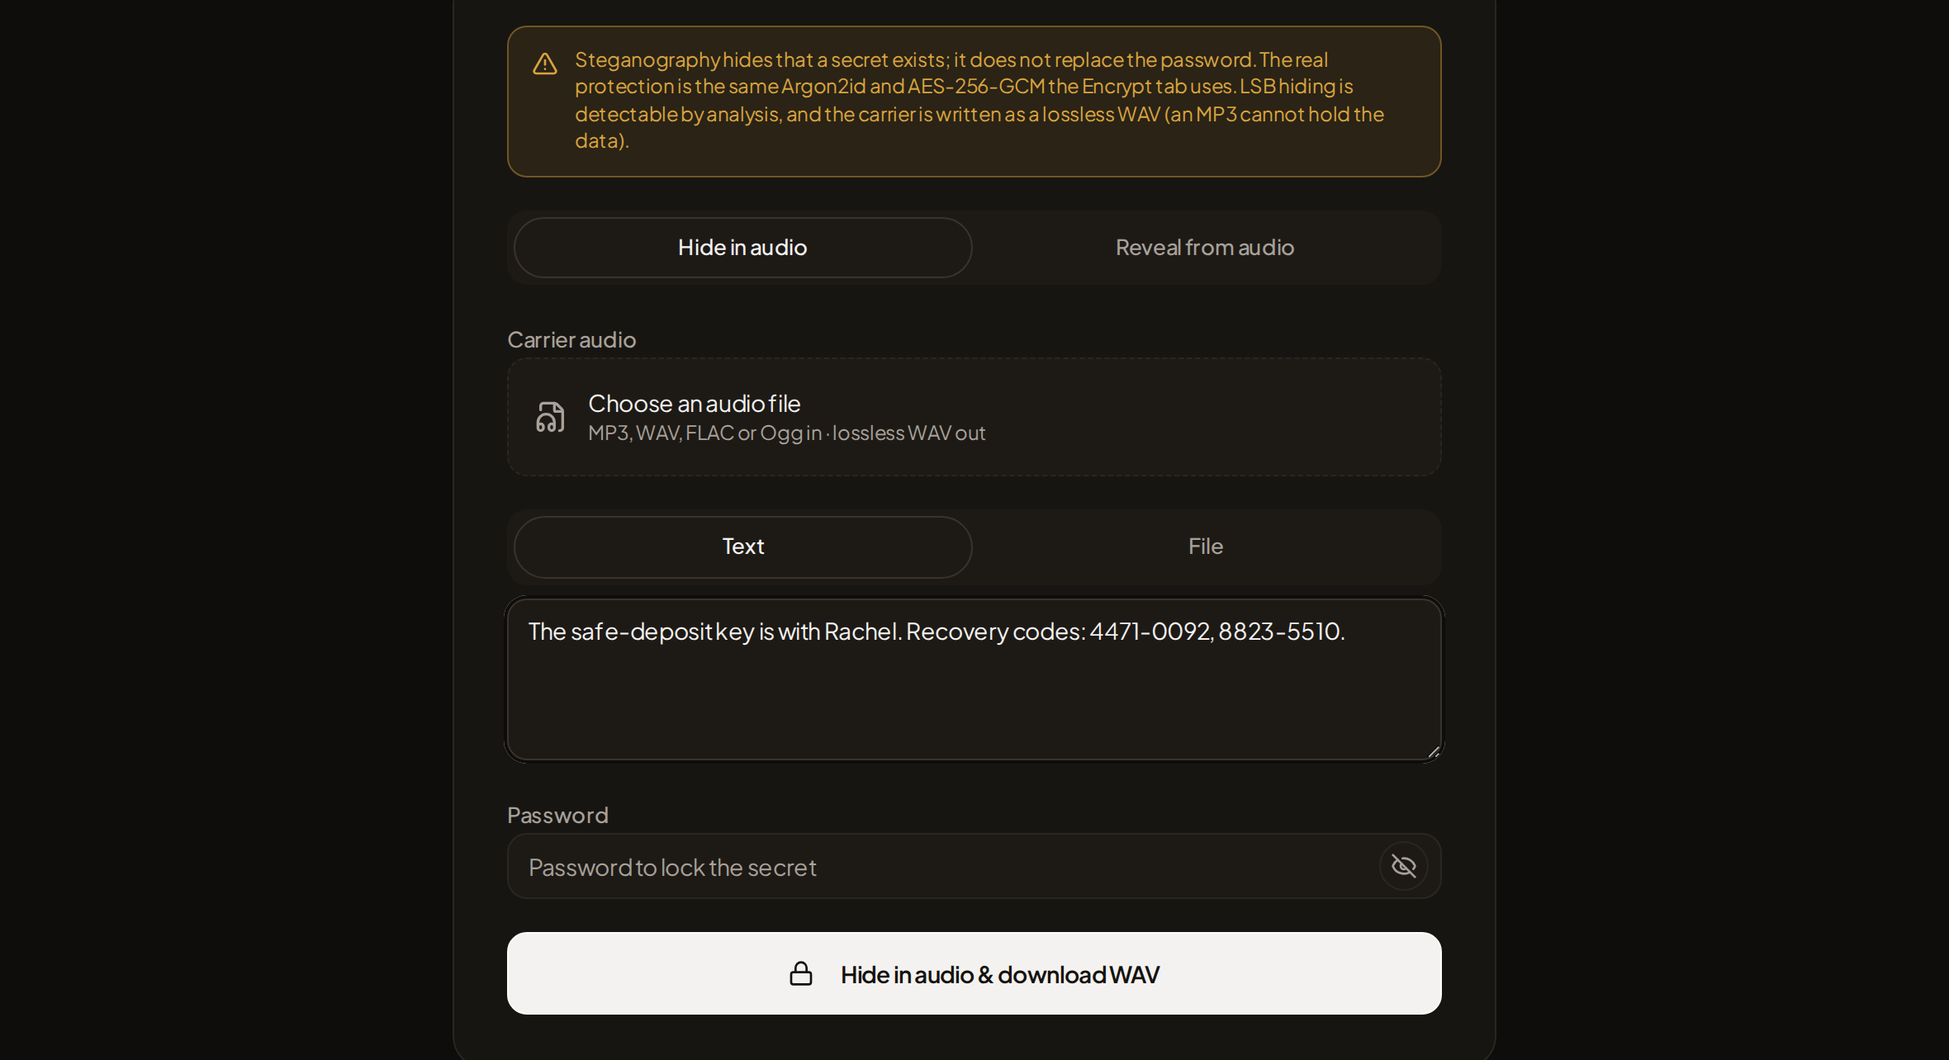
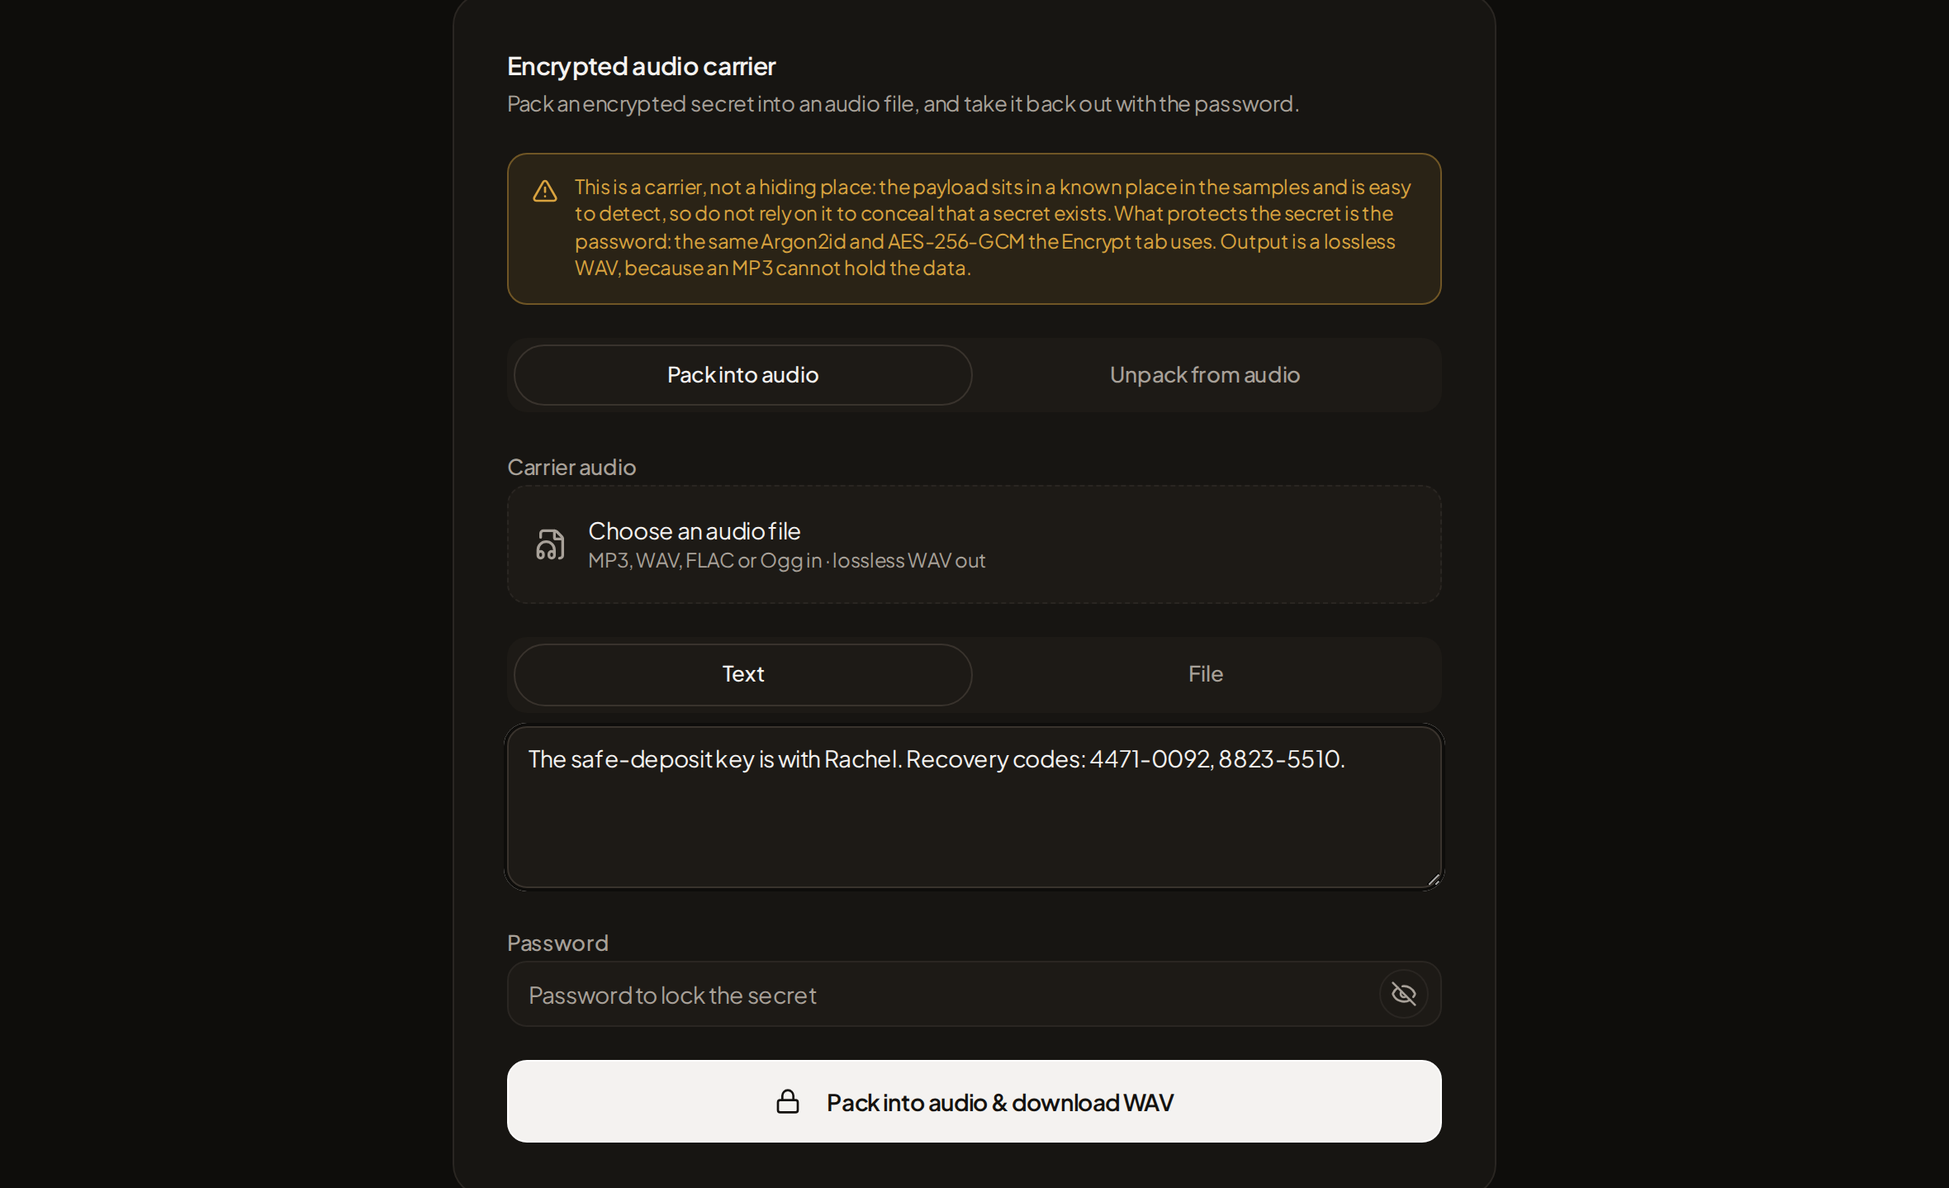
refactor(audio): frame the Audio tab as an encrypted carrier, not steganography
A security review correctly noted that KAUD1 is not meaningfully deniable
steganography: the magic sits in the first sample LSBs and the container
follows it sequentially, so the presence of a payload is trivially detectable.
Presenting it as "hides that a secret exists" oversold it.

- Reframe UI, docs and README as an "encrypted audio carrier". The banner now
  says plainly it is a carrier, not a hiding place, and does not claim to
  conceal that a secret exists. Pills and the primary button read Pack/Unpack.
- Add auto-lock to the tab: clear the password and any recovered secret on
  visibilitychange (hidden), pagehide, and unmount, overwriting the recovered
  buffer. This matches the main tool's secret-handling posture.
- Regenerate 12-audio-stego.png and update the capture step and browser test
  selectors for the new labels.

No format or crypto change: the payload is still an ordinary KEYM container
(Argon2id + AES-256-GCM), and KAUD1 on disk is unchanged.

diff --git a/src/components/audio-stego-tool.tsx b/src/components/audio-stego-tool.tsx
@@ -1,17 +1,23 @@
 "use client";
 
 /**
- * The Audio tab: hide a KEYM container inside an audio file (steganography), and
- * recover it. This is a carrier around the ordinary encrypt/decrypt path, not a
- * new cipher. The bytes hidden in the audio are a normal container produced by
- * `encryptViaWorker`, so Argon2id + AES-256-GCM and the independent decryptor
- * apply unchanged. See docs/FORMAT-AUDIO-STEGO.md.
+ * The Audio tab: an **encrypted audio carrier**. It packs a KEYM container into
+ * an audio file's samples and recovers it. This is a carrier around the ordinary
+ * encrypt/decrypt path, not a new cipher: the bytes packed into the audio are a
+ * normal container produced by `encryptViaWorker`, so Argon2id + AES-256-GCM and
+ * the independent decryptor apply unchanged. See docs/FORMAT-AUDIO-STEGO.md.
+ *
+ * Deliberately not called steganography in the UI. The `KAUD1` header sits in
+ * the first sample LSBs and the container follows it sequentially, so the
+ * presence of a payload is trivially detectable; this hides nothing from anyone
+ * who looks. What protects the secret is the password, exactly as on the Encrypt
+ * tab.
  *
  * Self-contained on purpose. It renders in its own tab like DiceEntropyTool, so
  * none of the 5,000-line encryptor's mode logic has to grow a fourth case.
  */
 
-import { useCallback, useRef, useState } from "react";
+import { useCallback, useEffect, useRef, useState } from "react";
 import { Button } from "@/components/ui/button";
 import { Input } from "@/components/ui/input";
 import { Label } from "@/components/ui/label";
@@ -116,6 +122,38 @@ export function AudioStegoTool() {
     setShowRevealed(false);
   }, []);
 
+  // Drop every secret this tab holds. JavaScript cannot guarantee zeroization,
+  // but the recovered bytes are one buffer this code owns, so it is overwritten
+  // rather than merely dereferenced; the strings are released to the collector.
+  const clearSecrets = useCallback(() => {
+    setPassword("");
+    setSecretText("");
+    setRevealedText((prev) => (prev === null ? prev : null));
+    setRevealedBytes((prev) => {
+      if (prev) prev.fill(0);
+      return null;
+    });
+    setShowRevealed(false);
+    setShowPassword(false);
+  }, []);
+
+  // Auto-lock, matching the main tool's posture: a tab that is hidden or being
+  // navigated away from should not keep a password and a decrypted secret in
+  // memory, and neither should one that unmounts (which is what a tab switch
+  // does here, since this panel is not force-mounted).
+  useEffect(() => {
+    const onHide = () => {
+      if (document.visibilityState === "hidden") clearSecrets();
+    };
+    document.addEventListener("visibilitychange", onHide);
+    window.addEventListener("pagehide", clearSecrets);
+    return () => {
+      document.removeEventListener("visibilitychange", onHide);
+      window.removeEventListener("pagehide", clearSecrets);
+      clearSecrets();
+    };
+  }, [clearSecrets]);
+
   const switchSub = useCallback(
     (next: Sub) => {
       setSub(next);
@@ -155,12 +193,12 @@ export function AudioStegoTool() {
 
   const runHide = useCallback(async () => {
     if (!carrierPcm) {
-      toast({ title: "Add a carrier", description: "Choose an audio file to hide the secret in.", variant: "destructive" });
+      toast({ title: "Add a carrier", description: "Choose an audio file to pack the secret into.", variant: "destructive" });
       return;
     }
     const haveSecret = secretType === "text" ? secretText.length > 0 : secretFile !== null;
     if (!haveSecret) {
-      toast({ title: "Nothing to hide", description: "Enter text or choose a file to conceal.", variant: "destructive" });
+      toast({ title: "Nothing to hide", description: "Enter text or choose a file to pack in.", variant: "destructive" });
       return;
     }
     if (!meetsPasswordPolicy(password)) {
@@ -201,7 +239,7 @@ export function AudioStegoTool() {
       const wav = writePcm16Wav(stego);
       download(new Blob([wav as BlobPart], { type: "audio/wav" }), "keymaker-audio.wav");
       toast({
-        title: "Secret hidden in audio",
+        title: "Secret packed into audio",
         description: "Downloaded as a WAV. It plays normally; open it here on the Reveal side with the password.",
       });
     } catch (e) {
@@ -211,7 +249,7 @@ export function AudioStegoTool() {
           : isUserFacingError(e)
             ? e.message
             : "Something went wrong sealing the secret into the audio.";
-      toast({ title: "Could not hide the secret", description, variant: "destructive" });
+      toast({ title: "Could not pack the secret", description, variant: "destructive" });
     } finally {
       setBusy(false);
     }
@@ -274,23 +312,30 @@ export function AudioStegoTool() {
 
   return (
     <div className="space-y-5">
-      {/* Honest framing: concealment, not undetectability; lossless output only. */}
+      <div className="space-y-1">
+        <h2 className="text-[15px] font-semibold text-foreground">Encrypted audio carrier</h2>
+        <p className="text-[13px] leading-snug text-muted-foreground">
+          Pack an encrypted secret into an audio file, and take it back out with the password.
+        </p>
+      </div>
+
+      {/* Honest framing: this is a carrier, not deniable hiding; lossless out. */}
       <div className="flex items-start gap-2.5 rounded-xl border border-warning/40 bg-warning/10 px-3.5 py-3 text-[12px] leading-snug text-warning">
         <TriangleAlert className="mt-0.5 h-4 w-4 shrink-0" aria-hidden="true" />
         <p>
-          Steganography hides that a secret exists; it does not replace the password. The real
-          protection is the same Argon2id and AES-256-GCM the Encrypt tab uses. LSB hiding is
-          detectable by analysis, and the carrier is written as a lossless WAV (an MP3 cannot hold
-          the data).
+          This is a carrier, not a hiding place: the payload sits in a known place in the samples
+          and is easy to detect, so do not rely on it to conceal that a secret exists. What protects
+          the secret is the password: the same Argon2id and AES-256-GCM the Encrypt tab uses. Output
+          is a lossless WAV, because an MP3 cannot hold the data.
         </p>
       </div>
 
       <div className="flex gap-0.5 rounded-xl bg-inset p-1">
         <button type="button" onClick={() => switchSub("hide")} className={pillClasses(sub === "hide")}>
-          Hide in audio
+          Pack into audio
         </button>
         <button type="button" onClick={() => switchSub("reveal")} className={pillClasses(sub === "reveal")}>
-          Reveal from audio
+          Unpack from audio
         </button>
       </div>
 
@@ -354,7 +399,7 @@ export function AudioStegoTool() {
                 id="audio-secret-text"
                 value={secretText}
                 onChange={(e) => setSecretText(e.target.value)}
-                placeholder="Enter the secret text to conceal…"
+                placeholder="Enter the secret text to pack in…"
                 rows={4}
                 spellCheck={false}
                 autoCorrect="off"
@@ -406,7 +451,7 @@ export function AudioStegoTool() {
             className="w-full rounded-xl py-6 text-sm font-semibold"
           >
             <Lock className="mr-2 h-4 w-4" />
-            {busy ? "Working…" : "Hide in audio & download WAV"}
+            {busy ? "Working…" : "Pack into audio & download WAV"}
           </Button>
         </>
       ) : (
@@ -417,7 +462,7 @@ export function AudioStegoTool() {
             onChange={setPassword}
             show={showPassword}
             onToggle={() => setShowPassword((v) => !v)}
-            placeholder="Password the secret was hidden with"
+            placeholder="Password the secret was packed with"
           />
 
           <Button

diff --git a/tests/browser/audio-stego.spec.ts b/tests/browser/audio-stego.spec.ts
@@ -55,11 +55,11 @@ test.describe("hide a secret in audio", () => {
     });
     await expect(page.getByText(/holds \d/)).toBeVisible({ timeout: 20_000 });
 
-    await visible(page.getByPlaceholder("Enter the secret text to conceal…")).fill(SECRET);
+    await visible(page.getByPlaceholder("Enter the secret text to pack in…")).fill(SECRET);
     await visible(page.getByPlaceholder("Password to lock the secret")).fill(STRONG_PASSWORD);
 
     const downloadPromise = page.waitForEvent("download");
-    await visible(page.getByRole("button", { name: "Hide in audio & download WAV" })).click();
+    await visible(page.getByRole("button", { name: "Pack into audio & download WAV" })).click();
     const download = await downloadPromise;
     const path = await download.path();
     const { readFile } = await import("node:fs/promises");
@@ -69,14 +69,14 @@ test.describe("hide a secret in audio", () => {
     expect(stego.subarray(0, 4).toString("ascii")).toBe("RIFF");
 
     // Reveal side. Switch, upload the produced WAV, decrypt.
-    await visible(page.getByRole("button", { name: "Reveal from audio" })).click();
+    await visible(page.getByRole("button", { name: "Unpack from audio" })).click();
     await page.locator("#audio-carrier-input").setInputFiles({
       name: "keymaker-audio.wav",
       mimeType: "audio/wav",
       buffer: stego,
     });
     await expect(page.getByText(/holds \d/)).toBeVisible({ timeout: 20_000 });
-    await visible(page.getByPlaceholder("Password the secret was hidden with")).fill(STRONG_PASSWORD);
+    await visible(page.getByPlaceholder("Password the secret was packed with")).fill(STRONG_PASSWORD);
     await visible(page.getByRole("button", { name: /^Reveal secret$/i })).click();
 
     const recovered = page.getByTestId("audio-recovered-text");
@@ -86,7 +86,7 @@ test.describe("hide a secret in audio", () => {
 
   test("a clean carrier reports nothing hidden", async ({ page }) => {
     await gotoAudio(page);
-    await visible(page.getByRole("button", { name: "Reveal from audio" })).click();
+    await visible(page.getByRole("button", { name: "Unpack from audio" })).click();
 
     await page.locator("#audio-carrier-input").setInputFiles({
       name: "plain.wav",
@@ -94,7 +94,7 @@ test.describe("hide a secret in audio", () => {
       buffer: makeWav(44100),
     });
     await expect(page.getByText(/holds \d/)).toBeVisible({ timeout: 20_000 });
-    await visible(page.getByPlaceholder("Password the secret was hidden with")).fill(STRONG_PASSWORD);
+    await visible(page.getByPlaceholder("Password the secret was packed with")).fill(STRONG_PASSWORD);
     await visible(page.getByRole("button", { name: /^Reveal secret$/i })).click();
 
     await expect(page.getByText(/No hidden Keymaker data/i).first()).toBeVisible({ timeout: 20_000 });
@@ -110,17 +110,17 @@ test.describe("hide a secret in audio", () => {
       buffer: makeWav(44100),
     });
     await expect(page.getByText(/holds \d/)).toBeVisible({ timeout: 20_000 });
-    await visible(page.getByPlaceholder("Enter the secret text to conceal…")).fill(SECRET);
+    await visible(page.getByPlaceholder("Enter the secret text to pack in…")).fill(SECRET);
     await visible(page.getByPlaceholder("Password to lock the secret")).fill(STRONG_PASSWORD);
 
     const downloadPromise = page.waitForEvent("download");
-    await visible(page.getByRole("button", { name: "Hide in audio & download WAV" })).click();
+    await visible(page.getByRole("button", { name: "Pack into audio & download WAV" })).click();
     const stego = await (await downloadPromise).path().then(async (p) => {
       const { readFile } = await import("node:fs/promises");
       return readFile(p);
     });
 
-    await visible(page.getByRole("button", { name: "Reveal from audio" })).click();
+    await visible(page.getByRole("button", { name: "Unpack from audio" })).click();
     await page.locator("#audio-carrier-input").setInputFiles({
       name: "keymaker-audio.wav",
       mimeType: "audio/wav",
@@ -128,7 +128,7 @@ test.describe("hide a secret in audio", () => {
     });
     await expect(page.getByText(/holds \d/)).toBeVisible({ timeout: 20_000 });
     // A valid-looking but wrong password: same policy shape, different string.
-    await visible(page.getByPlaceholder("Password the secret was hidden with")).fill("Wrong-Passphrase-Entirely-9999!");
+    await visible(page.getByPlaceholder("Password the secret was packed with")).fill("Wrong-Passphrase-Entirely-9999!");
     await visible(page.getByRole("button", { name: /^Reveal secret$/i })).click();
 
     await expect(page.getByText(/Wrong password or damaged carrier/i).first()).toBeVisible({ timeout: 90_000 });

diff --git a/README.md b/README.md
@@ -39,7 +39,7 @@ Security Policy does and does not add to that.
 - [Self-describing containers](#self-describing-containers)
 - [Seed-phrase awareness](#seed-phrase-awareness)
 - [Dice entropy calculator](#dice-entropy-calculator)
-- [Hiding a secret in audio](#hiding-a-secret-in-audio)
+- [Encrypted audio carrier](#encrypted-audio-carrier)
 - [Full feature list](#full-feature-list)
 - [A backup, end to end](#a-backup-end-to-end)
 - [Security model](#security-model)
@@ -67,7 +67,7 @@ comparison is only worth reading if it says where they win — so it does.
 | Works on a phone with nothing installed | **yes** | no | no | app | yes |
 | Split a secret k-of-n | **yes** ([Shamir](docs/FORMAT-V2-DESIGN.md)) | no | no | no | no |
 | Seed-phrase tooling (BIP-39, SeedQR, dice) | **yes** | no | no | no | no |
-| Hide a secret inside audio (steganography) | **yes** | no | no | no | no |
+| Pack an encrypted secret into audio (carrier) | **yes** | no | no | no | no |
 
 A dash means *not claimed here* rather than *absent* — these projects are Go, C and Java
 respectively, and whether any given release is bit-reproducible is a question for their
@@ -279,33 +279,33 @@ from your recorded rolls on an air-gapped device, using dedicated, audited softw
 
 ---
 
-## Hiding a secret in audio
+## Encrypted audio carrier
 
-Under the **Audio** tab. It conceals an encrypted secret inside an audio file, so
-what you keep looks and plays like ordinary music. The bytes hidden in the audio
-are the same KEYM container the Encrypt tab writes, so Argon2id, AES-256-GCM and
-the [independent decryptor](reference/keym2.py) all still apply. This is a
-carrier, not a new cipher. Full layout in
+Under the **Audio** tab. It packs an encrypted secret into an audio file that
+plays like ordinary music. The bytes packed into the audio are the same KEYM
+container the Encrypt tab writes, so Argon2id, AES-256-GCM and the
+[independent decryptor](reference/keym2.py) all still apply. This is a carrier,
+not a new cipher. Full layout in
 [**docs/FORMAT-AUDIO-STEGO.md**](docs/FORMAT-AUDIO-STEGO.md).
 
 <p align="center">
-  <img alt="The Audio tab: a warning that steganography is concealment not confidentiality, a carrier picker, a secret to conceal, and a password" src="docs/screenshots/12-audio-stego.png" width="620" />
+  <img alt="The Audio tab: a warning that this is an encrypted carrier not a hiding place, a carrier picker, a secret to pack in, and a password" src="docs/screenshots/12-audio-stego.png" width="620" />
 </p>
 
-- **Hide:** choose an audio carrier and a secret (text or file), set a password,
+- **Pack:** choose an audio carrier and a secret (text or file), set a password,
   and download a WAV that carries the sealed container in the least-significant
   bit of its samples.
-- **Reveal:** open that WAV here with the password to recover the secret.
+- **Unpack:** open that WAV here with the password to recover the secret.
 
 Two things it states plainly, because a security tool should not oversell hiding:
 
-- **Concealment, not confidentiality.** The password is what protects the secret.
-  LSB steganography hides *that a secret exists*, and it is **detectable** by
-  steganalysis. It does not make the secret unrecoverable to someone who suspects
-  it and has the password.
+- **A carrier, not a hiding place.** The password is what protects the secret.
+  This is **not** steganography: the `KAUD1` header sits at a fixed place in the
+  samples and the payload follows it sequentially, so the presence of a payload
+  is trivially detectable. It does not conceal *that* a secret exists.
 - **Lossless output only.** Input may be MP3, WAV, FLAC or Ogg, but the file you
   keep is a **WAV**. The hidden bit does not survive MP3 or other lossy
-  re-encoding, so there is deliberately no stego-MP3 out.
+  re-encoding, so there is deliberately no carrier-MP3 out.
 
 ---
 
@@ -343,7 +343,7 @@ Two things it states plainly, because a security tool should not oversell hiding
   blobs are self-identifying
 - Optional filename obscuring, replacing the name with `keymaker-<random>.keym`
 - QR export for encrypted text, and Standard SeedQR export for recovered seeds
-- **Audio steganography**: hide the sealed container in an audio file's sample
+- **Encrypted audio carrier**: pack the sealed container into an audio file's sample
   LSBs and recover it (Audio tab). Input MP3/WAV/FLAC/Ogg, lossless WAV out;
   concealment layered on the same crypto, not a replacement for it
 - Transparent import of legacy IttyBitz `.ibitz` files and bare IBTZ blobs
@@ -732,7 +732,7 @@ every KDF and cipher combination, and takes a few minutes.
 | [`docs/FORMAT.md`](docs/FORMAT.md) | Normative KEYM v1 byte-level specification |
 | [`docs/FORMAT-V2-DESIGN.md`](docs/FORMAT-V2-DESIGN.md) | Normative KEYM v2 specification — still read, no longer written |
 | [`docs/FORMAT-V3-DESIGN.md`](docs/FORMAT-V3-DESIGN.md) | Normative KEYM v3 specification, a delta on v2 — the format the app writes today |
-| [`docs/FORMAT-AUDIO-STEGO.md`](docs/FORMAT-AUDIO-STEGO.md) | The KAUD1 audio carrier layout: hiding a container in audio, with a diagram |
+| [`docs/FORMAT-AUDIO-STEGO.md`](docs/FORMAT-AUDIO-STEGO.md) | The KAUD1 encrypted audio carrier layout: packing a container into audio, with a diagram |
 | [`docs/ROADMAP.md`](docs/ROADMAP.md) | Phased plan: what ships next, and what was cut |
 | [`docs/VERIFYING.md`](docs/VERIFYING.md) | Checking that the site you loaded is the code you read |
 | [`docs/WALKTHROUGH.md`](docs/WALKTHROUGH.md) | A backup end to end, illustrated — first encryption through to recovery |

diff --git a/docs/FORMAT-AUDIO-STEGO.md b/docs/FORMAT-AUDIO-STEGO.md
@@ -1,16 +1,20 @@
-# KAUD1: the audio carrier layout
+# KAUD1: the encrypted audio carrier layout
 
-This note defines how Keymaker hides a KEYM container inside an audio file. It is
+This note defines how Keymaker packs a KEYM container into an audio file. It is
 the audio analogue of a paper vault (§7.1): a **carrier**, not a cipher. The
-bytes hidden in the audio are an ordinary KEYM v2/v3 container, so every
+bytes packed into the audio are an ordinary KEYM v2/v3 container, so every
 protection the container already has (Argon2id, AES-256-GCM, Shamir, the
 independent Python decryptor) applies unchanged. Nothing here parses or weakens
 that container.
 
-This is concealment, not confidentiality. The confidentiality is the container's.
-LSB steganography is **detectable** by steganalysis, so KAUD1 hides *that a
-secret exists*, layered on real encryption; it does not make the secret
-unrecoverable to someone who suspects it is there and has the password.
+**This is a carrier, not steganography.** It does not meaningfully hide *that* a
+secret is present: the `KAUD1` magic sits in the first sample LSBs and the
+container follows it sequentially, so a fixed-offset check or any LSB-histogram
+steganalysis flags it immediately. All confidentiality is the container's; the
+carrier's only job is to move an encrypted payload as an ordinary-looking audio
+file. Genuine deniable steganography would need keyed placement, cover-aware
+encoding and measured resistance to steganalysis, which is a separate project
+and explicitly out of scope here.
 
 ## The two flows
 
